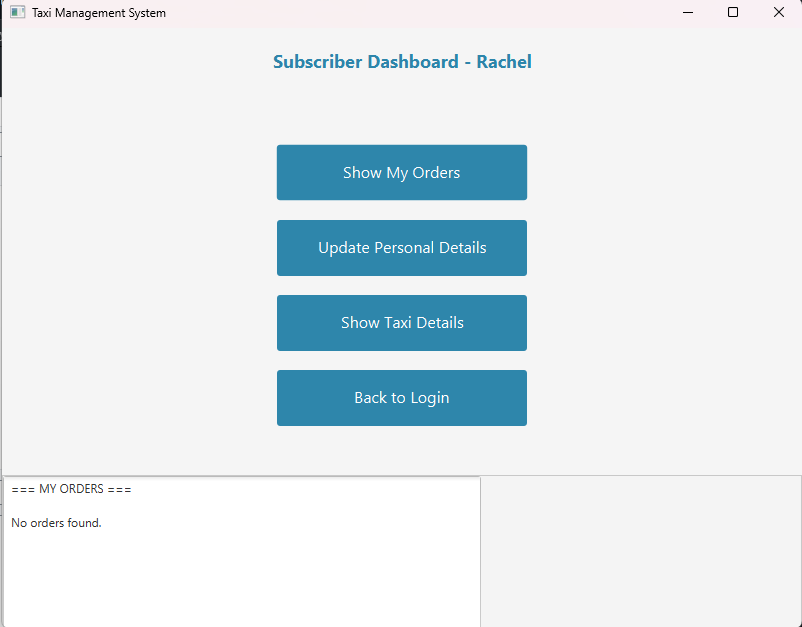
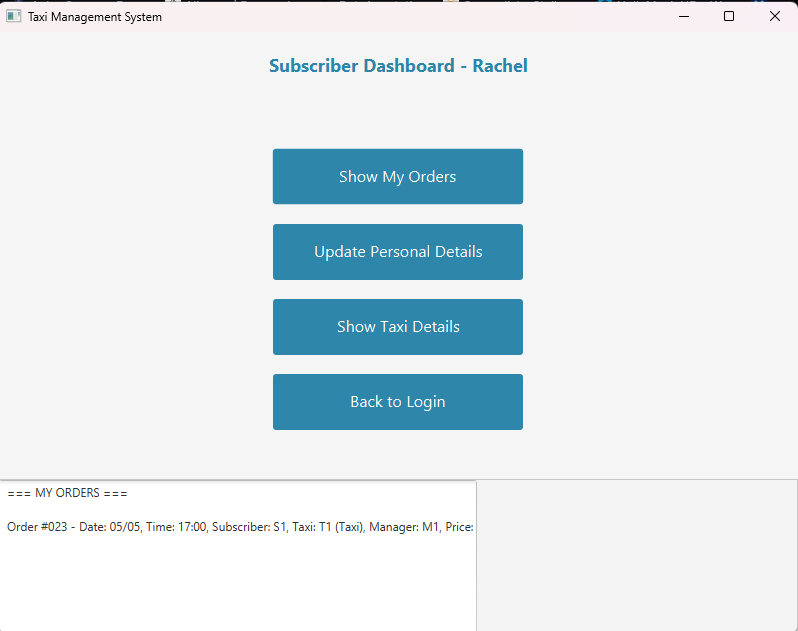
Improve screenshots: populated data and filled forms

diff --git a/README.md b/README.md
@@ -22,12 +22,19 @@ taxis to managers, and persist any collection to file.
   <img src="docs/main-manager.png" width="620" alt="Main Manager dashboard">
 </p>
 
+Assigning a taxi to a manager, with the subscriber list rendered underneath — every listing view
+sorts before printing, here by last name:
+
+<p align="center">
+  <img src="docs/assign-taxi.png" width="620" alt="Assign taxi to manager, over a sorted subscriber listing">
+</p>
+
 The other two roles get a deliberately narrower surface — a manager dispatches rides, a subscriber
-only ever sees their own:
+only ever sees their own orders:
 
 | Manager | Subscriber |
 | --- | --- |
-| <img src="docs/manager.png" width="400" alt="Manager dashboard"> | <img src="docs/subscriber.png" width="400" alt="Subscriber dashboard"> |
+| <img src="docs/manager.png" width="400" alt="Manager dashboard"> | <img src="docs/subscriber.png" width="400" alt="Subscriber dashboard showing an order"> |
 
 Placing an order, and inspecting a taxi. The lookup on the right is where the polymorphism shows
 up — `T5` is an `IntercityTaxi`, so it reports its served cities and hour cap alongside the
